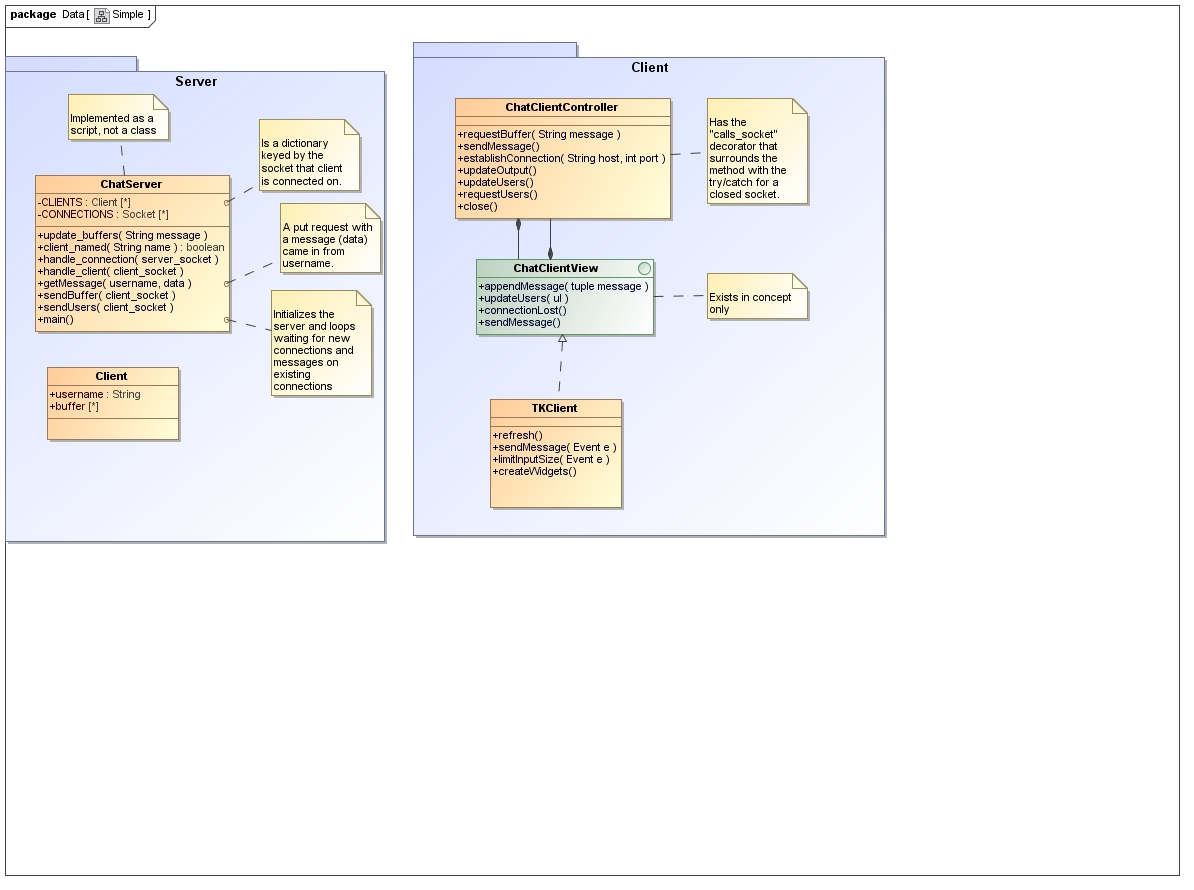
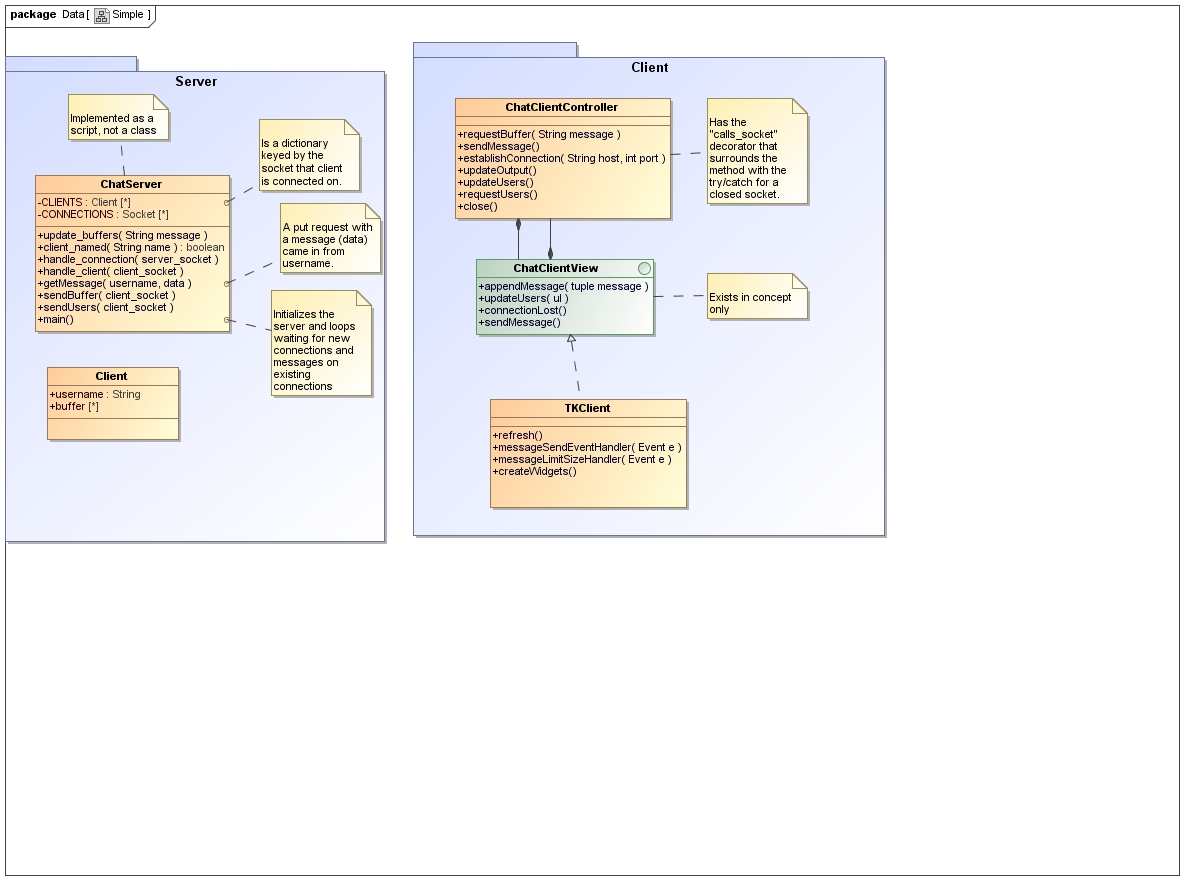
Minor code improvements

Changed region(s): [[0.4028, 0.4247, 0.5888, 0.5764], [0.4648, 0.364, 0.4958, 0.3944]]

diff --git a/chat_client/tkclient.py b/chat_client/tkclient.py
@@ -7,6 +7,7 @@ from chat_client_controller import *
 
 class TKChatClient(tk.Frame):
   INPUT_LIMIT = 100
+  REFRESH_RATE = 1000
 
   def __init__(self, controller, master=None):
     tk.Frame.__init__(self, master)
@@ -28,7 +29,7 @@ class TKChatClient(tk.Frame):
       print "Refreshing"
       self.controller.updateOutput()
       self.controller.updateUsers()
-      self.after(1000, self.refresh)
+      self.after(REFRESH_RATE, self.refresh)
 
 
   def updateUsers(self, users_list):
@@ -38,20 +39,20 @@ class TKChatClient(tk.Frame):
     self.users_window.config(state=tk.DISABLED)
 
 
-  def appendMessage(self, message_tuple):
+  def appendMessage(self, message):
     self.output_window.config(state=tk.NORMAL)
-    self.output_window.insert(tk.END, message_tuple + "\n")
+    self.output_window.insert(tk.END, message + "\n")
     self.output_window.config(state=tk.DISABLED)
 
 
-  def sendMessage(self, event):
+  def messageSendEventHandler(self, event):
     message = self.input_window.get(1.0, tk.END).strip()
     print "Sending message: '%s'" % message
     self.input_window.delete(1.0, tk.END)
     self.input_window_chars = 0
     self.controller.sendMessage(message)
 
-  def limitInputSize(self, event):
+  def messageLimitSizeHandler(self, event):
     print "Testing limiting"
     message = self.input_window.get(1.0, tk.END).strip()
     chars_in = len(message)
@@ -72,10 +73,10 @@ class TKChatClient(tk.Frame):
     self.input_window_chars = len(initial_input_text)
     self.input_window = tk.Text(self, height=5)
     self.input_window.insert(tk.END, initial_input_text)
-    self.input_window.bind("<Return>", self.sendMessage)
+    self.input_window.bind("<Return>", self.messageSendEventHandler)
     # Boilerplate for the <<Modified>> virtual event
     self.input_window.tk.call(self.input_window._w, 'edit', 'modified', 0)
-    self.input_window.bind("<<Modified>>", self.limitInputSize)
+    self.input_window.bind("<<Modified>>", self.messageLimitSizeHandler)
     self.input_window.grid()
 
     self.users_window = tk.Text(self, height=5)
@@ -85,6 +86,9 @@ class TKChatClient(tk.Frame):
 
 # Main method
 if __name__ == "__main__":
+  if len(sys.argv) < 2:
+    print "Username required as a command line parameter."
+    sys.exit()
   name = sys.argv[1]
   controller = ChatClientController(name)
 
